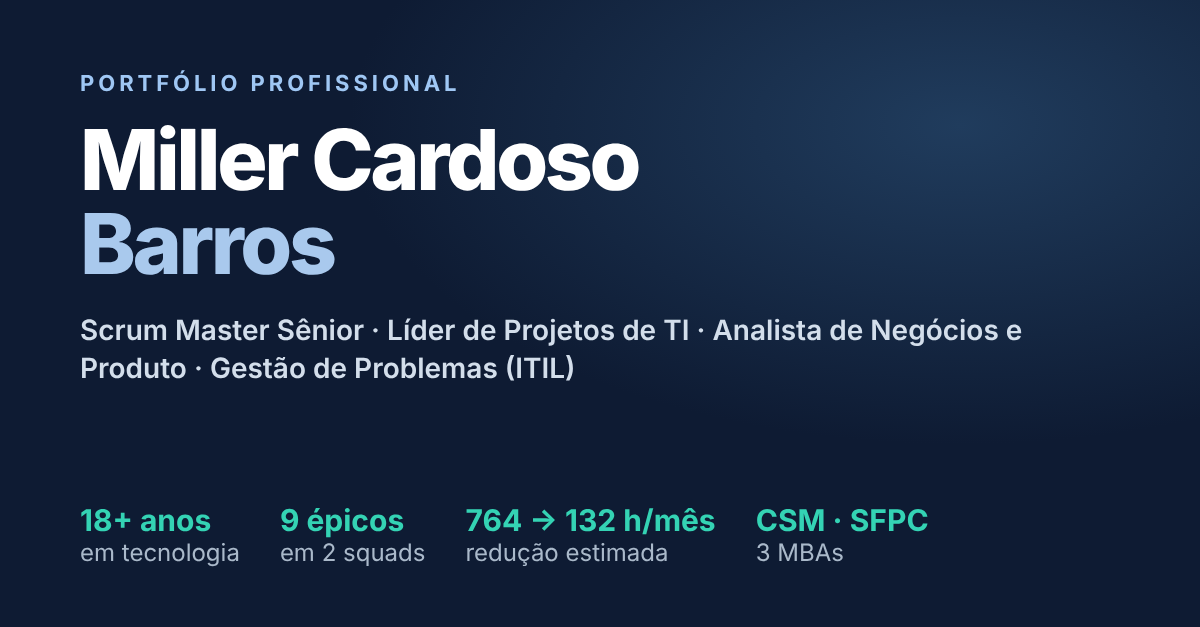
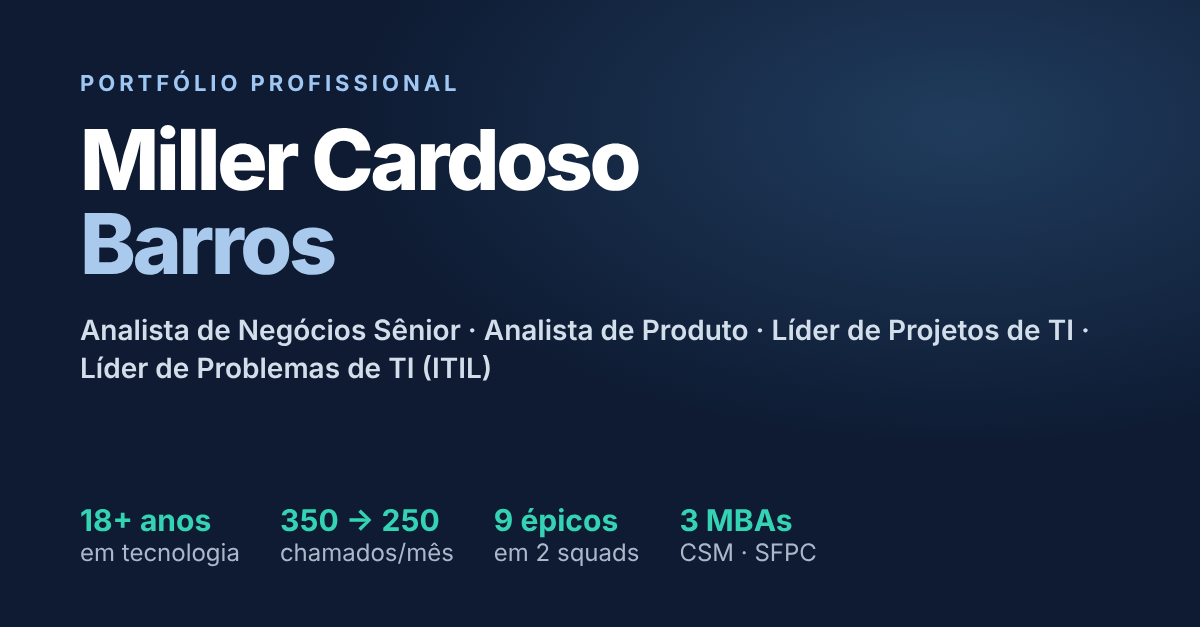
Reposiciona título: Analista de Negócios e Produto, Líder de Projetos e Líder de Problemas de TI
Claude-Session: https://claude.ai/code/session_01XaeUyaSSWwJBaeSFHULPei

Changed region(s): [[0.2158, 0.7879, 0.7708, 0.9091], [0.0617, 0.4848, 0.8942, 0.6061]]

diff --git a/index.html b/index.html
@@ -3,7 +3,7 @@
 <head>
   <meta charset="utf-8">
   <meta name="viewport" content="width=device-width, initial-scale=1">
-  <meta name="description" content="Portfólio de Miller Cardoso Barros: Scrum Master Sênior, Líder de Projetos de TI, Analista de Negócios e Produto e Gestão de Problemas (ITIL).">
+  <meta name="description" content="Portfólio de Miller Cardoso Barros: Analista de Negócios Sênior, Analista de Produto, Líder de Projetos de TI e Líder de Problemas de TI (ITIL).">
   <meta name="theme-color" content="#101827">
   <meta property="og:image" content="https://millerkbarros.github.io/portfolio-profissional/og-card.png">
   <meta property="og:image:width" content="1200">
@@ -12,7 +12,7 @@
   <meta property="og:type" content="website">
   <meta name="twitter:card" content="summary_large_image">
   <meta property="og:title" content="Miller Cardoso Barros | Portfólio Profissional">
-  <meta property="og:description" content="Scrum Master Sênior · Líder de Projetos de TI · Analista de Negócios e Produto · Gestão de Problemas (ITIL)">
+  <meta property="og:description" content="Analista de Negócios Sênior · Analista de Produto · Líder de Projetos de TI · Líder de Problemas de TI (ITIL)">
   <title>Miller Cardoso Barros | Portfólio Profissional</title>
   <link rel="stylesheet" href="style.css">
 </head>
@@ -29,7 +29,7 @@
         <div>
           <p class="eyebrow">PORTFÓLIO PROFISSIONAL</p>
           <h1>Miller Cardoso<br><span>Barros</span></h1>
-          <p class="role">Scrum Master Sênior · Líder de Projetos de TI · Analista de Negócios e Produto · Gestão de Problemas (ITIL)</p>
+          <p class="role">Analista de Negócios Sênior · Analista de Produto · Líder de Projetos de TI · Líder de Problemas de TI (ITIL)</p>
           <p class="intro">Mais de 18 anos em tecnologia, sendo os últimos 4 conduzindo squads ágeis, projetos e a Gestão de Problemas de TI em sistemas críticos de operação de campo. Faço a ponte entre negócio, tecnologia e fornecedores, da especificação até a entrada em produção.</p>
           <div class="actions">
             <a class="button primary" href="#projetos">Ver projetos</a>
@@ -117,7 +117,7 @@
       <p class="eyebrow">TRAJETÓRIA</p>
       <h2>18 anos entre qualidade, implantação, projetos e operação.</h2>
       <p class="section-lead">Comecei no suporte e na implantação de sistemas, passei por qualidade de software e hoje lidero projetos, squads e a Gestão de Problemas.</p>
-      <div class="timeline"><div class="tl-item"><div class="tl-dot"></div><div class="tl-date">fev/2023 – atual</div><div class="tl-body"><h3>Grupo Águas do Brasil</h3><p class="tl-role">Analista Funcional Sênior, atuando como Scrum Master, Líder de Projetos e Problem Manager</p><p>Squads ágeis, projetos em cascata, Gestão de Problemas (ITIL), especificação funcional e integrações em sistemas de operação de campo.</p></div></div><div class="tl-item"><div class="tl-dot"></div><div class="tl-date">mar/2022 – fev/2023</div><div class="tl-body"><h3>Solor (alocado no Grupo Águas do Brasil)</h3><p class="tl-role">Analista de Testes Sênior</p><p>Planos e casos de teste, validação de entregas de squads Scrum e Kanban, integrações via API e dados em SQL, com cenários BDD.</p></div></div><div class="tl-item"><div class="tl-dot"></div><div class="tl-date">jan/2014 – fev/2022</div><div class="tl-body"><h3>RCA Sistemas</h3><p class="tl-role">Analista de Testes e Analista de Implantação N3</p><p>Testes antes de cada liberação, suporte N1 a N3 com análise em SQL, implantação do sistema em clientes e treinamento de usuários.</p></div></div><div class="tl-item"><div class="tl-dot"></div><div class="tl-date">2008 – 2011</div><div class="tl-body"><h3>RCA Sistemas</h3><p class="tl-role">Analista de Implantação e Suporte Técnico</p><p>Início de carreira em tecnologia.</p></div></div></div>
+      <div class="timeline"><div class="tl-item"><div class="tl-dot"></div><div class="tl-date">fev/2023 – atual</div><div class="tl-body"><h3>Grupo Águas do Brasil</h3><p class="tl-role">Analista Funcional Sênior, atuando como Analista de Negócios, Líder de Projetos e Líder de Problemas de TI</p><p>Squads ágeis, projetos em cascata, Gestão de Problemas (ITIL), especificação funcional e integrações em sistemas de operação de campo.</p></div></div><div class="tl-item"><div class="tl-dot"></div><div class="tl-date">mar/2022 – fev/2023</div><div class="tl-body"><h3>Solor (alocado no Grupo Águas do Brasil)</h3><p class="tl-role">Analista de Testes Sênior</p><p>Planos e casos de teste, validação de entregas de squads Scrum e Kanban, integrações via API e dados em SQL, com cenários BDD.</p></div></div><div class="tl-item"><div class="tl-dot"></div><div class="tl-date">jan/2014 – fev/2022</div><div class="tl-body"><h3>RCA Sistemas</h3><p class="tl-role">Analista de Testes e Analista de Implantação N3</p><p>Testes antes de cada liberação, suporte N1 a N3 com análise em SQL, implantação do sistema em clientes e treinamento de usuários.</p></div></div><div class="tl-item"><div class="tl-dot"></div><div class="tl-date">2008 – 2011</div><div class="tl-body"><h3>RCA Sistemas</h3><p class="tl-role">Analista de Implantação e Suporte Técnico</p><p>Início de carreira em tecnologia.</p></div></div></div>
       <a class="text-link" href="curriculo-miller-barros.pdf?v=20261023b" target="_blank" rel="noreferrer">Ver currículo completo (PDF) ↗</a>
     </section>
 

diff --git a/README.md b/README.md
@@ -2,9 +2,9 @@
 
 <img width="180" height="180" alt="Foto de Miller Cardoso Barros" src="https://github.com/user-attachments/assets/7b3dabfc-9775-48dc-ad3c-2aca87f9851c" />
 
-### Scrum Master Sênior | Líder de Projetos de TI | Analista de Negócios e Produto | Gestão de Problemas (ITIL)
+### Analista de Negócios Sênior | Analista de Produto | Líder de Projetos de TI | Líder de Problemas de TI (ITIL)
 
-Mais de 18 anos em tecnologia, sendo os últimos 4 como Scrum Master, Líder de Projetos e Analista de Negócios no Grupo Águas do Brasil, em sistemas críticos de operação de campo do saneamento. Faço a ponte entre negócio, tecnologia e fornecedores, da especificação até a entrada em produção.
+Mais de 18 anos em tecnologia, sendo os últimos 4 como Analista de Negócios, Líder de Projetos e Líder de Problemas de TI no Grupo Águas do Brasil, em sistemas críticos de operação de campo do saneamento. Faço a ponte entre negócio, tecnologia e fornecedores, da especificação até a entrada em produção.
 
 **[Site do portfólio](https://millerkbarros.github.io/portfolio-profissional/) · [LinkedIn](https://www.linkedin.com/in/millerbarros) · [Simulador PERT + Monte Carlo](https://millerkbarros.github.io/simulador-pert-monte-carlo/) · [Currículo (PDF)](./curriculo-miller-barros.pdf?v=20261023)**
 
